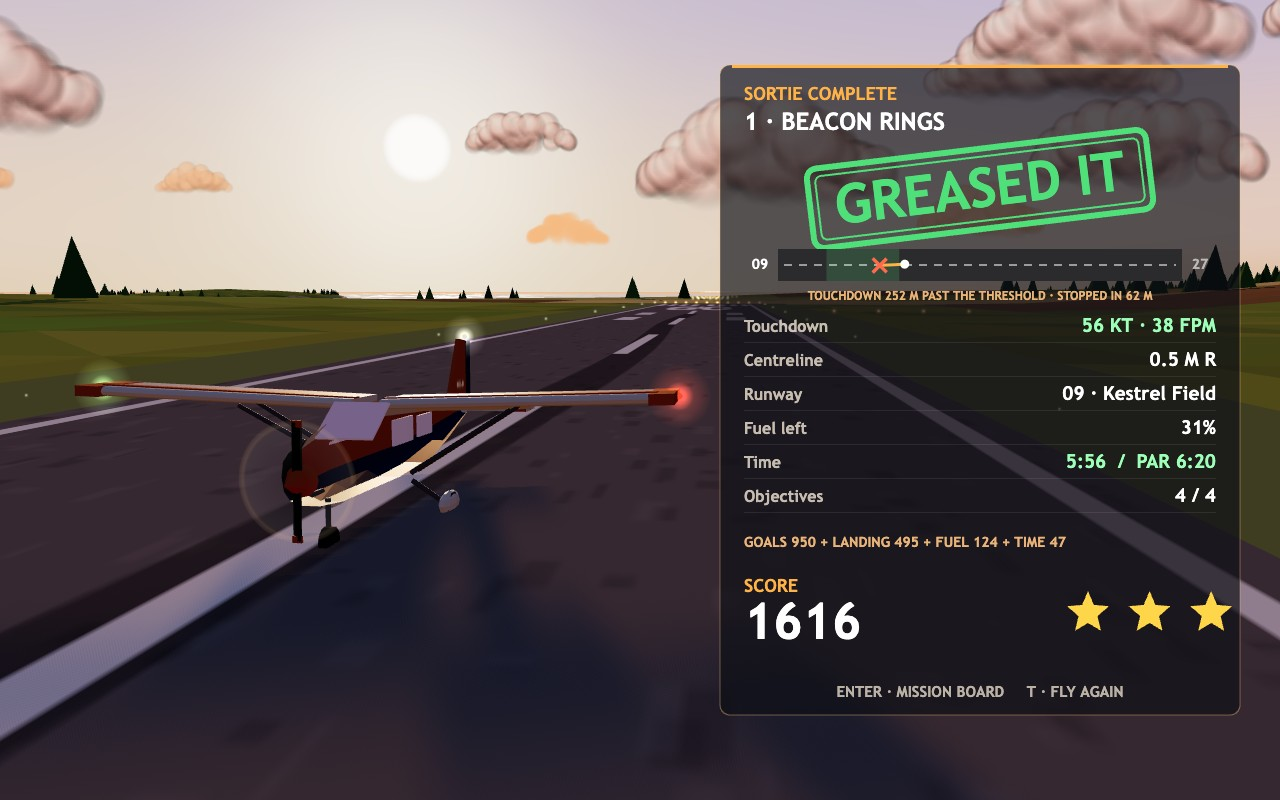
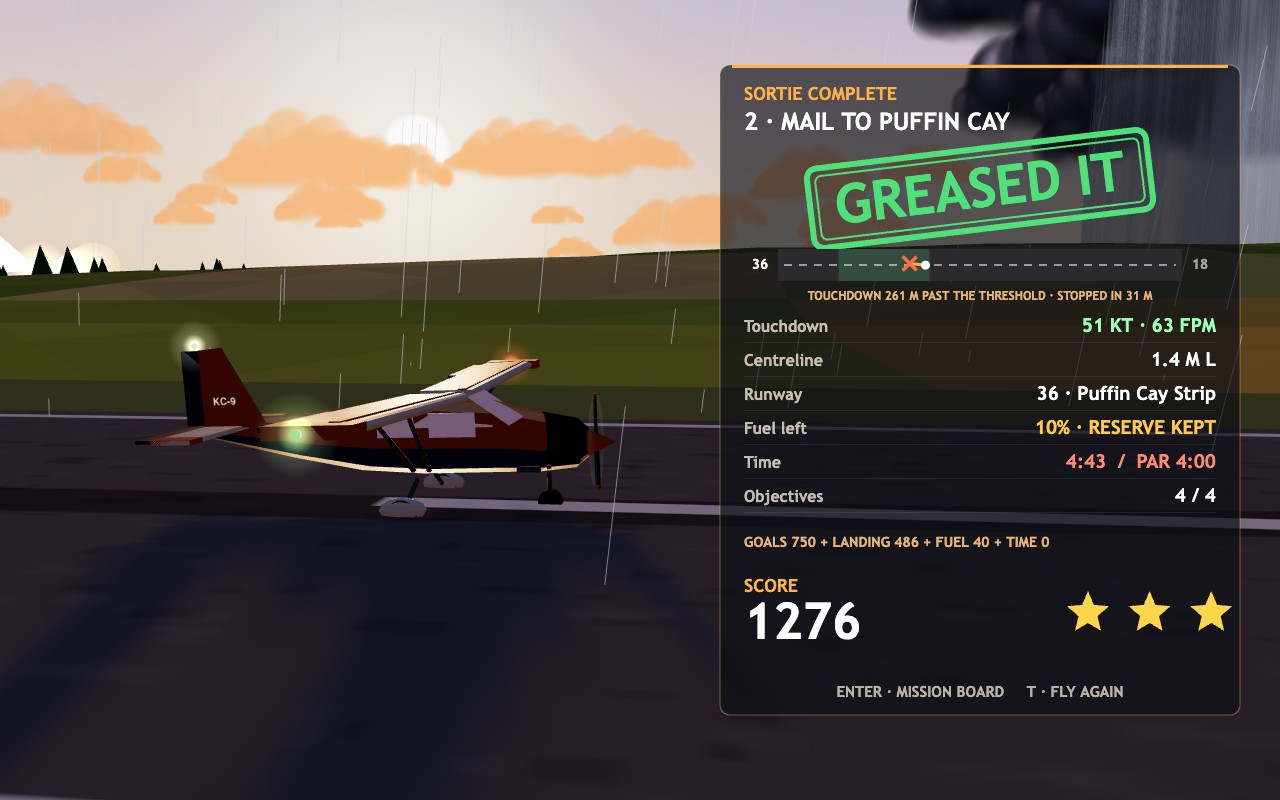
Landing card shot comes from the mail run at Puffin Cay; sortie pilot can fly the mail run; fuel row shows the reserve

diff --git a/game/src/autopilot.js b/game/src/autopilot.js
@@ -98,11 +98,14 @@ export function approach(a, strip, reversed) {
 }
 
 /**
- * A pilot for a whole sortie (rings or a straight landing): it works the gear and flaps by
- * hand like a player and returns each step's controls. `act(name)` is called for toggles.
+ * A pilot for a whole sortie (the rings, the mail run or a straight landing): it works the gear
+ * and flaps by hand like a player and returns each step's controls. `act(name)` is called for
+ * toggles. On the mail run it cruises at a fuel-saving throttle to a fix south of Puffin Cay.
  */
 export function createSortiePilot(session, act) {
-  const strip = AIRSTRIPS[0];
+  const home = AIRSTRIPS[0];
+  const mail = session.mission.finish === 'land-puffin';
+  const strip = mail ? AIRSTRIPS[1] : home;
   let phase = session.aircraft.onGround ? 'takeoff' : session.rings.length ? 'rings' : 'land';
   let cleaned = !session.aircraft.onGround;
   let configured = false;
@@ -110,8 +113,21 @@ export function createSortiePilot(session, act) {
   return function controlsFor() {
     const a = session.aircraft;
     if (phase === 'takeoff') {
-      if (!a.onGround && a.agl > 40) phase = 'rings';
-      return takeoff(a, strip, false);
+      if (!a.onGround && a.agl > 40) phase = mail ? 'cruise' : 'rings';
+      return takeoff(a, home, false);
+    }
+    if (phase === 'cruise') {
+      if (!cleaned && a.agl > 70) {
+        cleaned = true;
+        if (a.gearDown) act('gear');
+        while (a.flapDetent !== 0) act('flaps');
+      }
+      const t = runwayThreshold(strip, false);
+      const fix = { x: t.x - t.ax * 1600, y: 170, z: t.z - t.az * 1600 };
+      if (Math.hypot(a.pos.x - fix.x, a.pos.z - fix.z) < 450) phase = 'land';
+      const c = flyToward(a, a.pos.x < 2600 ? { ...fix, y: 190 } : fix, 92);
+      c.throttle = Math.min(c.throttle, a.pos.x < 2600 ? 0.55 : 0.4);
+      return c;
     }
     if (!cleaned && a.agl > 70) {
       cleaned = true;

diff --git a/game/src/shots.js b/game/src/shots.js
@@ -1,7 +1,8 @@
 // The screenshot scenes behind ?shot=cover|cockpit|board|result (with &seed=N). Each one flies
 // a real sortie forward from its start with the seeded sortie pilot, through the game's own
 // rules, and stops at a moment worth showing: the cover banking toward ring 8 on final for 09,
-// the cockpit on a stormy final, the mission board, and the landing card after a full course.
+// the cockpit on a stormy final, the mission board, and the landing card at Puffin Cay after
+// the mail run, flown at a fuel-saving cruise.
 import { STEP } from './config.js';
 import { createSortiePilot, flyToward } from './autopilot.js';
 import { createAircraft } from './flight-physics.js';
@@ -33,7 +34,8 @@ export function stageShot(name, seed) {
     return { screen: 'board', session, view: 'orbit', pilot: null, settle: 0, best: { rings: 3, mail: 2, rescue: 1 } };
   }
   if (name === 'result') {
-    const session = createSession('rings', seed);
+    // The mail run, flown at a fuel-saving cruise all the way to Puffin Cay.
+    const session = createSession('mail', seed);
     flyUntil(session, pilotFor(session), () => false, 900);
     return { screen: 'result', session, view: 'orbit', pilot: null, settle: 0 };
   }

diff --git a/game/src/result-card.js b/game/src/result-card.js
@@ -116,7 +116,8 @@ export function drawResultCard(g, W, H, session) {
     ry += 34;
     row(g, x + 24, ry, inner, 'Runway', `${l.runwayName} · ${l.strip.name}${l.bounces ? ` · ${l.bounces} bounce` : ''}`);
     ry += 34;
-    row(g, x + 24, ry, inner, 'Fuel left', `${Math.round(session.aircraft.fuel)}%`, session.aircraft.fuel < 10 ? '#ff8a75' : '#ffffff');
+    const fuel = session.aircraft.fuel;
+    row(g, x + 24, ry, inner, 'Fuel left', `${Math.round(fuel)}%${fuel >= 8 && m.objectives.some((o) => o.id === 'fuel-reserve') ? ' · RESERVE KEPT' : ''}`, fuel < 8 ? '#ff8a75' : fuel < 15 ? '#ffc94a' : '#ffffff');
     ry += 34;
     row(g, x + 24, ry, inner, 'Time', `${clock(session.time)}  /  PAR ${clock(m.par)}`, session.time <= m.par ? '#9dffb8' : '#ff8a75');
     ry += 34;
